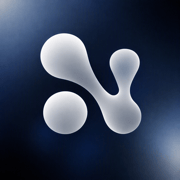
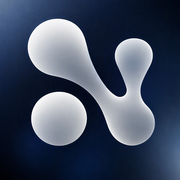
fix: 统一系统图标为 v7 位图

diff --git a/test/brand-theme-assets.test.js b/test/brand-theme-assets.test.js
@@ -18,6 +18,10 @@ function pngSize(path) {
   }
 }
 
+function assetBuffer(path) {
+  return readFileSync(new URL(`../${path}`, import.meta.url))
+}
+
 const index = read('index.html')
 const manifest = JSON.parse(read('public/manifest.json'))
 const tokens = read('tokens.css')
@@ -50,6 +54,16 @@ test('网站、启动页与主题切换统一使用同一套新版品牌图标',
     height: 180,
     hasAlpha: false,
   })
+
+  const v7AppleTouchIcon = assetBuffer('public/apple-touch-icon-v7.png')
+  for (const path of [
+    'public/apple-touch-icon.png',
+    'public/apple-touch-icon-v2.png',
+    'public/apple-touch-icon-v5.png',
+    'public/apple-touch-icon-v6.png',
+  ]) {
+    assert.deepEqual(assetBuffer(path), v7AppleTouchIcon, path)
+  }
 })
 
 test('PWA和网站图标由用户提供的同一位图母版生成', () => {
@@ -87,6 +101,13 @@ test('PWA和网站图标由用户提供的同一位图母版生成', () => {
       && icon.purpose === 'maskable'
   ))
   assert.ok(manifest.icons.every((icon) => icon.type === 'image/png'))
+  for (const [canonical, legacy] of [
+    ['public/app-icon-192.png', 'public/icon-192.png'],
+    ['public/app-icon-512.png', 'public/icon-512.png'],
+    ['public/app-icon-maskable-512.png', 'public/icon-maskable-512.png'],
+  ]) {
+    assert.deepEqual(assetBuffer(legacy), assetBuffer(canonical), legacy)
+  }
   for (const path of [
     'public/app-icon.svg',
     'public/app-icon-maskable.svg',
